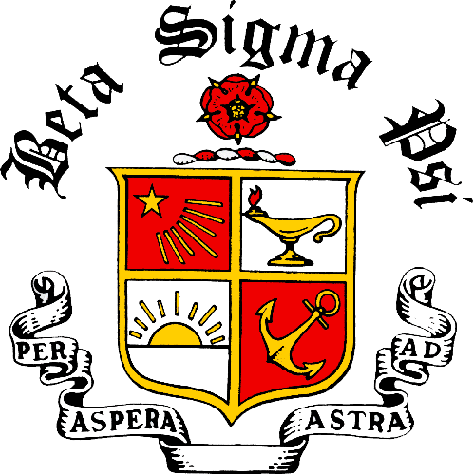
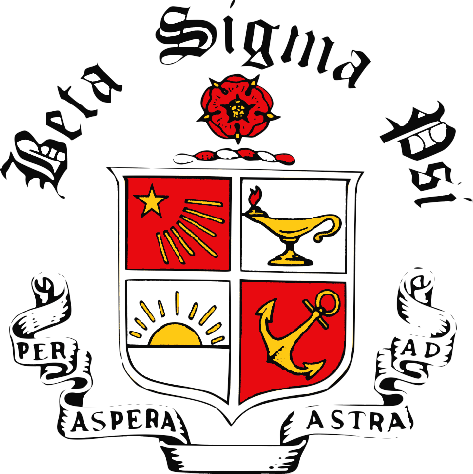
updated scholarship image, made the crest more transparenty

diff --git a/index.html b/index.html
@@ -138,7 +138,7 @@
           -->
         </div><!-- /.span4 -->
         <div class="span4">
-          <img class="img-circle" src="img/collegeround.png">
+          <img class="img-circle" src="img/studyinground.png">
           <h2>Scholastic</h2>
           <p>The reason we are all at college in the first place is for our education.
           Thus, strong scholastic achievement by each member is important. This is
